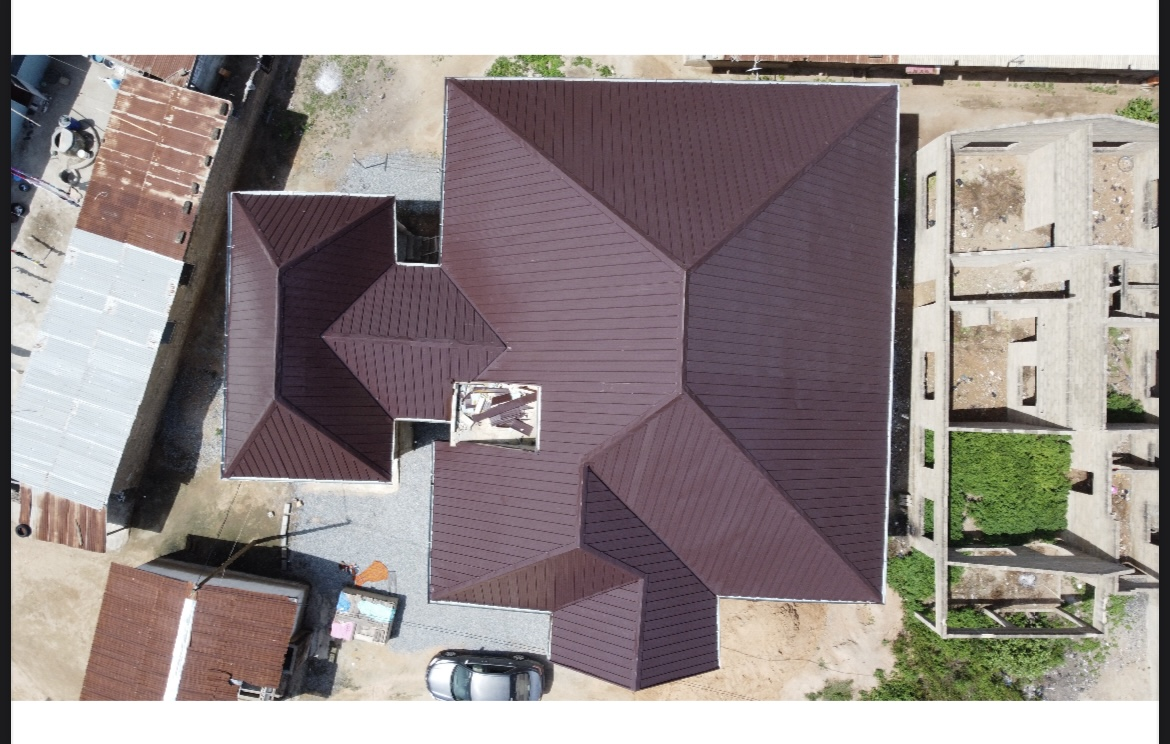
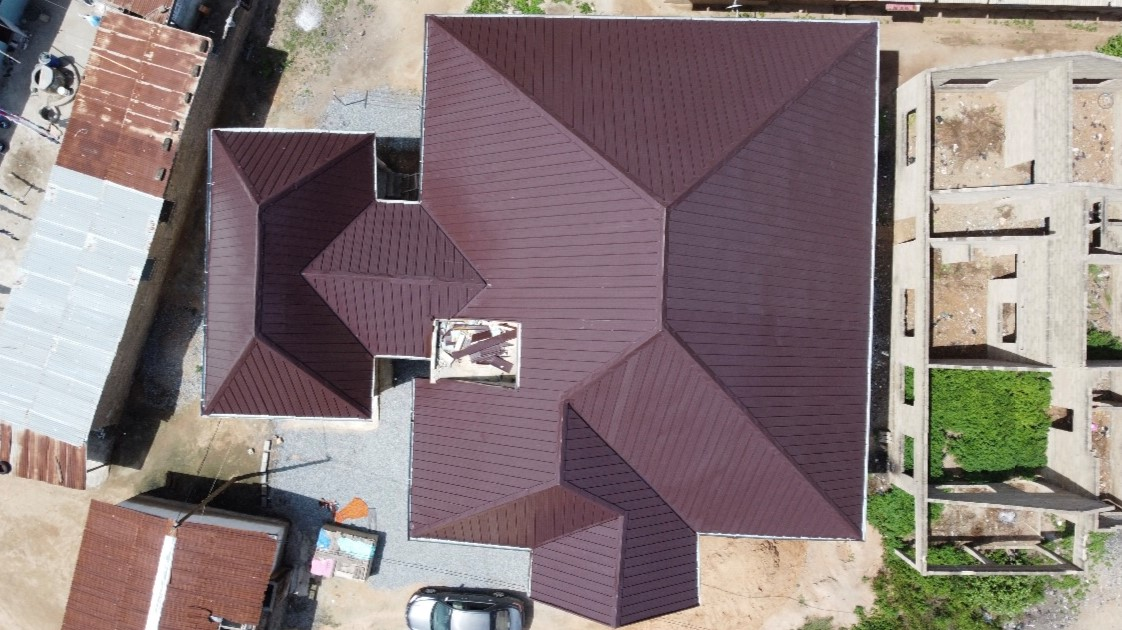
project section img update

diff --git a/components/sections/Project3.js b/components/sections/Project3.js
@@ -36,6 +36,7 @@ export default function Project3() {
                 <div className="project-thumb-two">
                   <Link href="/project-details">
                     <img
+                      style={{ objectFit: "cover" }}
                       src="/assets/img/project/new/new1.PNG"
                       height={417}
                       alt=""
@@ -58,6 +59,7 @@ export default function Project3() {
                 <div className="project-thumb-two">
                   <Link href="/project-details">
                     <img
+                      style={{ objectFit: "cover" }}
                       src="/assets/img/project/new/new2.PNG"
                       height={417}
                       alt=""
@@ -80,6 +82,7 @@ export default function Project3() {
                 <div className="project-thumb-two">
                   <Link href="/project-details">
                     <img
+                      style={{ objectFit: "cover" }}
                       src="/assets/img/project/new/new3.PNG"
                       height={417}
                       alt=""
@@ -102,6 +105,7 @@ export default function Project3() {
                 <div className="project-thumb-two">
                   <Link href="/project-details">
                     <img
+                      style={{ objectFit: "cover" }}
                       src="/assets/img/project/new/new4.PNG"
                       height={417}
                       alt=""
@@ -124,6 +128,7 @@ export default function Project3() {
                 <div className="project-thumb-two">
                   <Link href="/project-details">
                     <img
+                      style={{ objectFit: "cover" }}
                       src="/assets/img/project/new/new5.PNG"
                       height={417}
                       alt=""
@@ -146,6 +151,7 @@ export default function Project3() {
                 <div className="project-thumb-two">
                   <Link href="/project-details">
                     <img
+                      style={{ objectFit: "cover" }}
                       src="/assets/img/project/new/new6.PNG"
                       height={417}
                       alt=""
